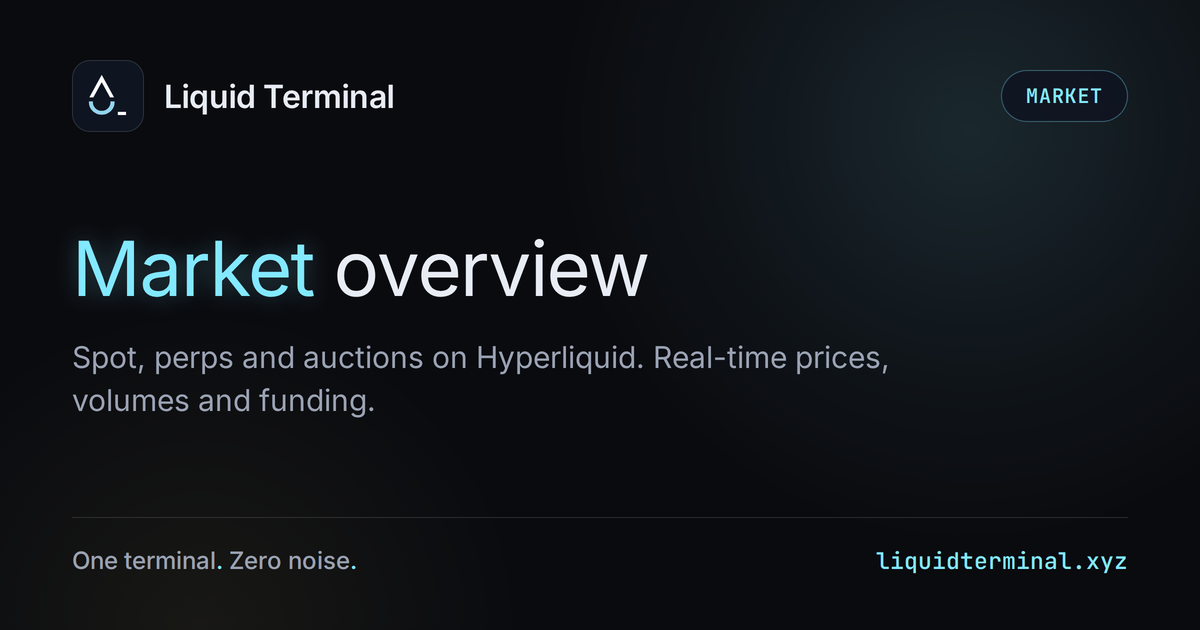
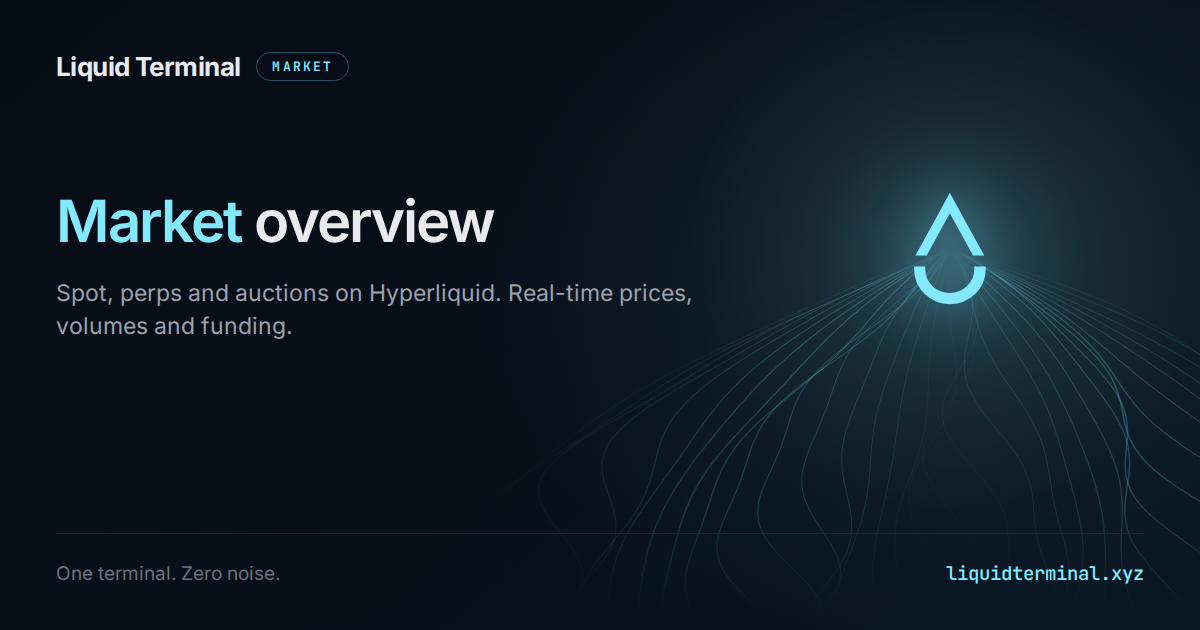
feat(brand): OG and Twitter cards carry the liquid layer
Every shared link now looks like the site it points at. The mark is the
source, lit, with the currents pouring out of it.

scripts/gen-og.mjs is the single template for all five cards, wired to
`pnpm gen:og`. It reuses the Chromium vendored with gstack, like
visual-check, so no new dependency. Copy is carried over verbatim from
the cards it replaces: the images changed, the promises did not.

Three things the render taught, all documented in DESIGN_SYSTEM §13:
- A fan aimed across a 1200x630 canvas only ever shows its first third,
  which is the stretch where the currents are still straight. It read as
  light rays and it striped the headline. Copy holds the left, the source
  holds the right, and the field opens inside empty space.
- The field is drawn full height into a tall box and squashed with
  scaleY, so the card shows the drape instead of the emission. Shortening
  the box just crops back to the straight part.
- The mark, its bloom, the field and the URL stay brand cyan on every
  card. Only the tag pill and the accented word follow a section accent:
  a gold droplet on a shared wiki link reads as a different product.

The mark is deliberately large and it is the only one on the card. At
feed thumbnail size it is the only element anyone resolves, so the
top-left lockup is now the wordmark alone.

Cards weigh ~480 KB against ~210 KB before, from the gradient. Well under
what any crawler refuses; no PNG optimiser is available in this
environment to claw it back.

diff --git a/DESIGN_SYSTEM.md b/DESIGN_SYSTEM.md
@@ -764,3 +764,27 @@ fields. A stream that crosses body copy at readable strength is a bug.
 Data-dense surfaces: tables, charts, KPI cells, anything inside a `<Card>`.
 The layer is background weather for narrative pages (landing, funding, legal,
 onboarding, 404). Numbers get a flat surface behind them, always.
+
+### Shared links (Open Graph / Twitter cards)
+
+`pnpm gen:og` regenerates every card from `scripts/gen-og.mjs`. One template,
+five cards, output committed to `public/og/` plus `public/og-image.png` and
+`public/twitter-image.png`. The streamline math in that script is a port of
+`DataFlow.tsx`; changing one without the other makes shared links stop looking
+like the site they point at.
+
+Layout rules baked into the template, learned by rendering:
+
+- **Copy left, source right.** A 1200x630 canvas only shows the first third of a
+  fan aimed across it, and that stretch is where the currents are still straight.
+  It read as light rays and it striped the headline. Giving the field its own
+  half fixes both.
+- **`scaleY` the field, don't shorten it.** The full fan is drawn into a tall box
+  and squashed, so the card shows the drape rather than the emission. Shortening
+  the box instead just crops back to the straight part.
+- **The mark, its bloom, the field and the URL are always brand cyan.** Only the
+  tag pill and the accented word in the title follow a section accent. A gold
+  droplet on a shared wiki link reads as a different product.
+- **The mark is large and it is the only one.** At feed thumbnail size it is the
+  only element anyone resolves, so the top-left lockup is the wordmark alone and
+  the card keeps one source.
